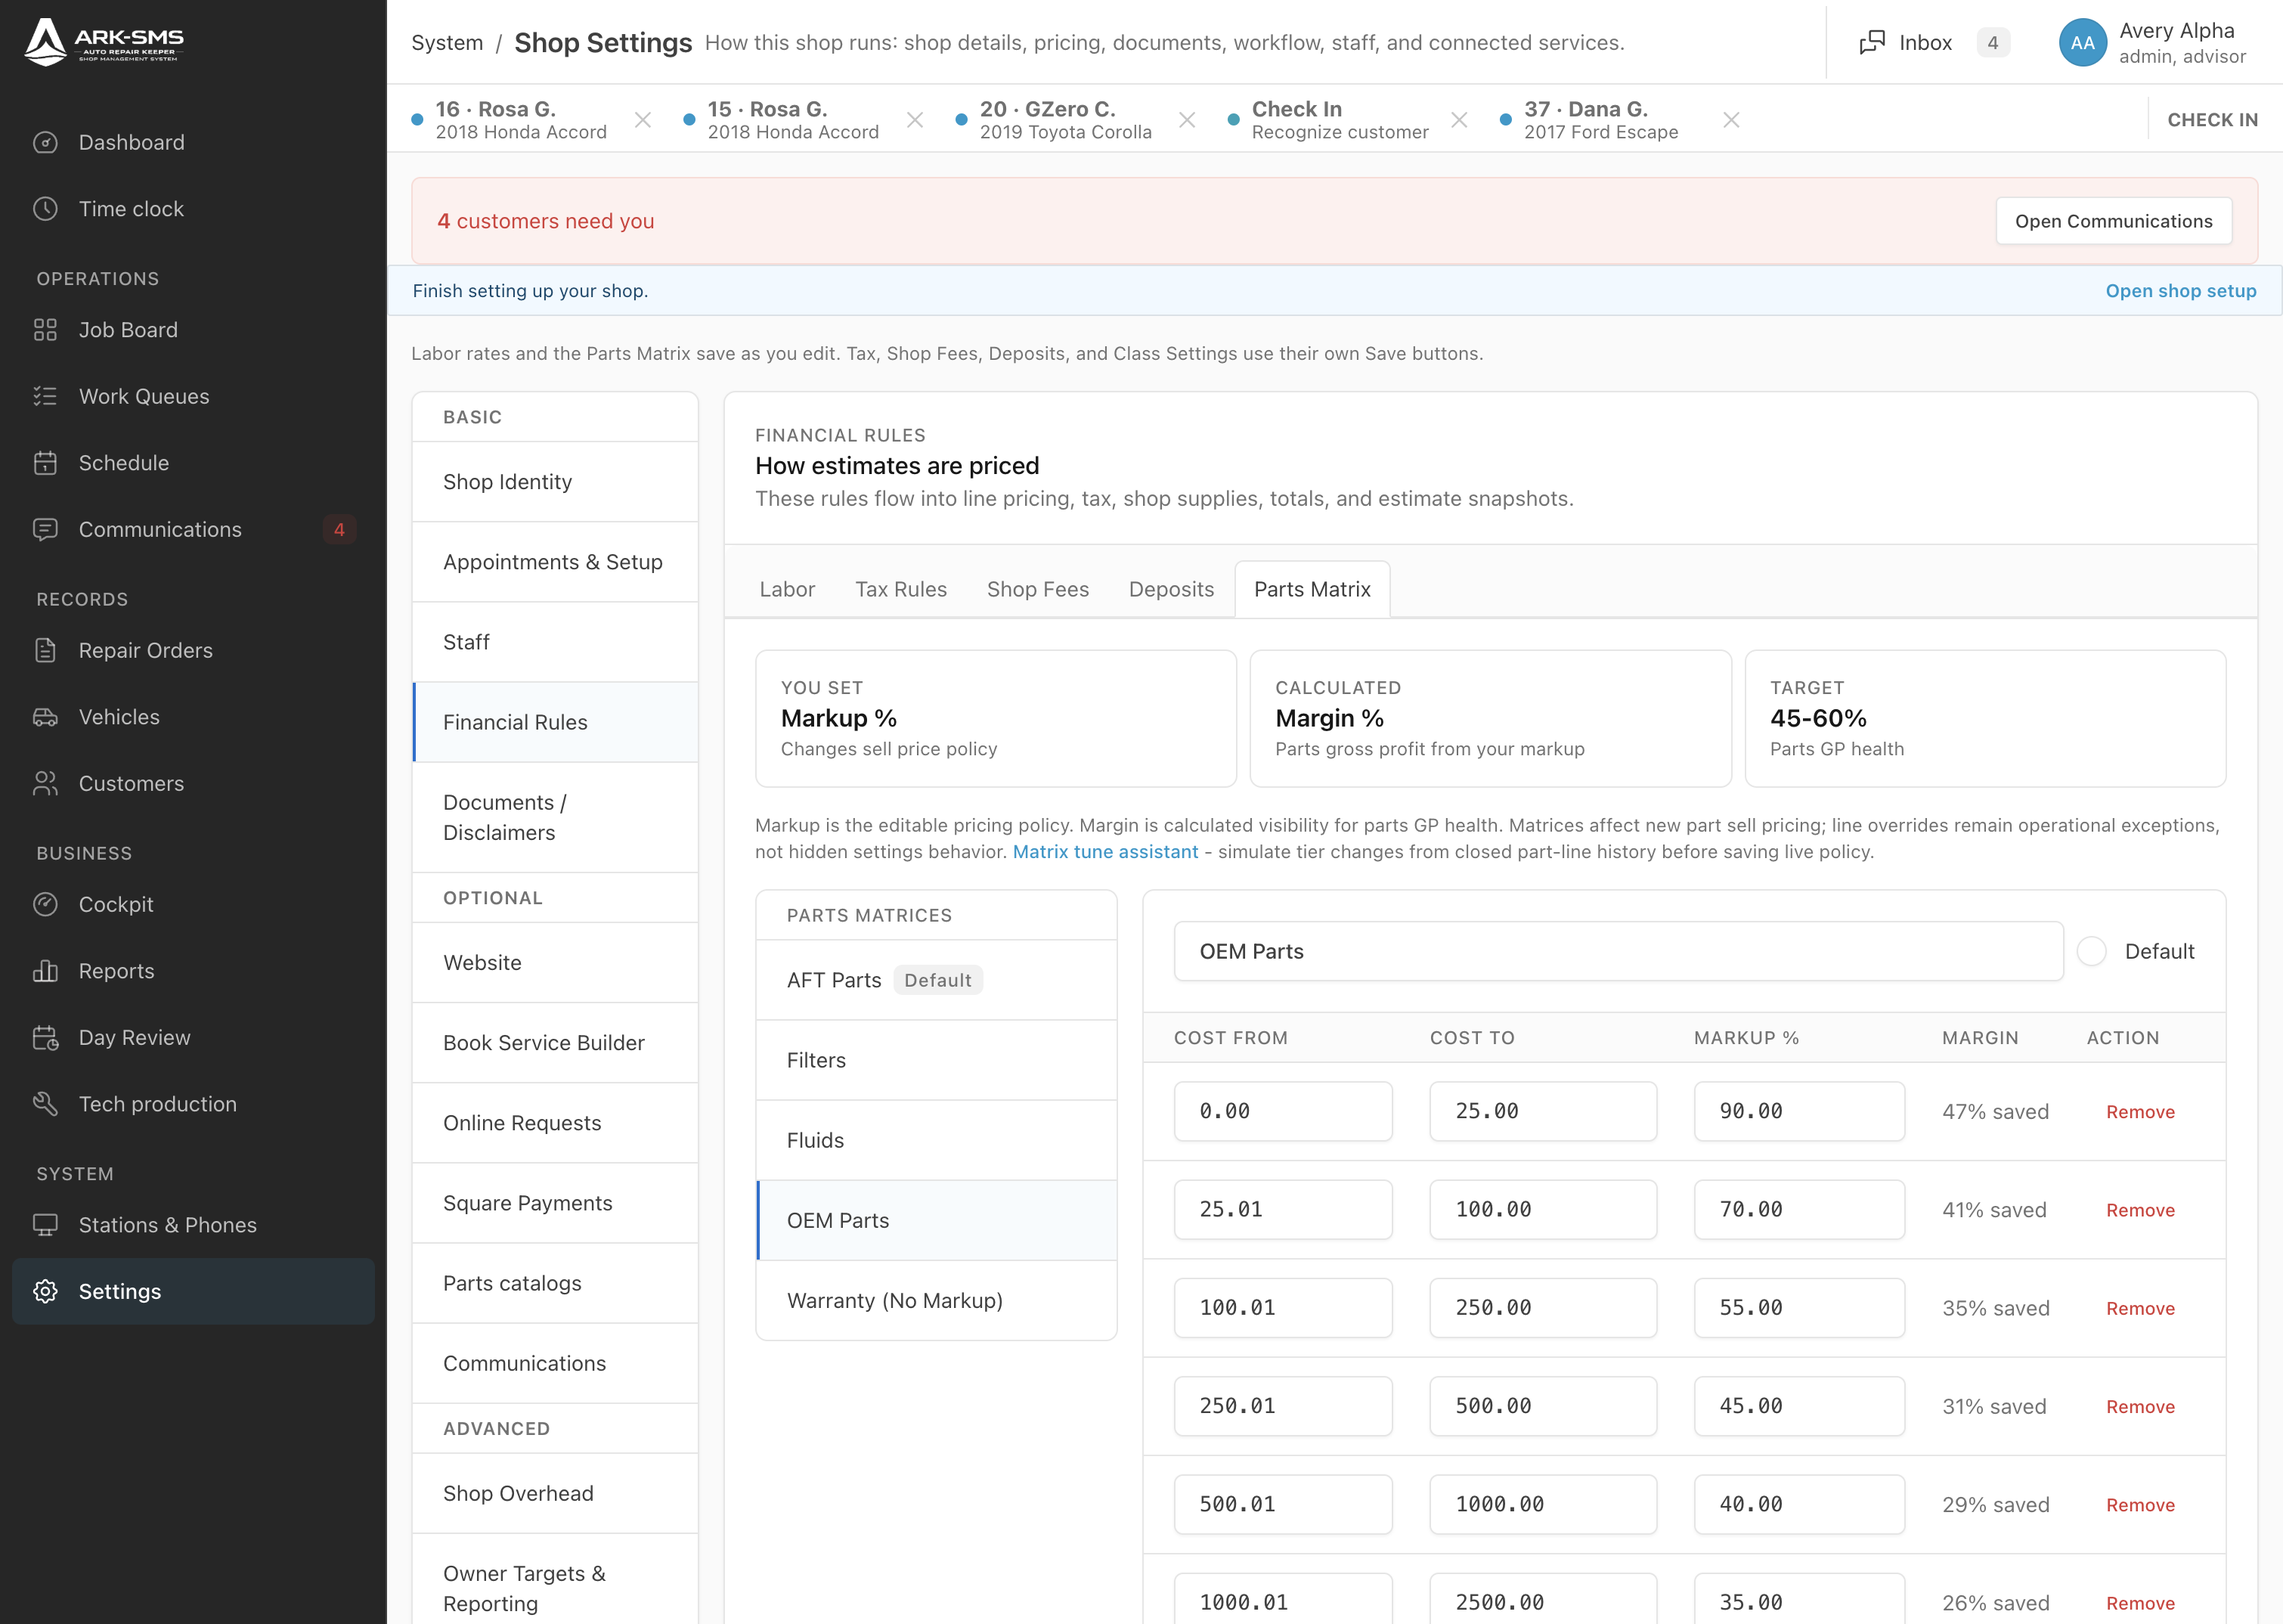
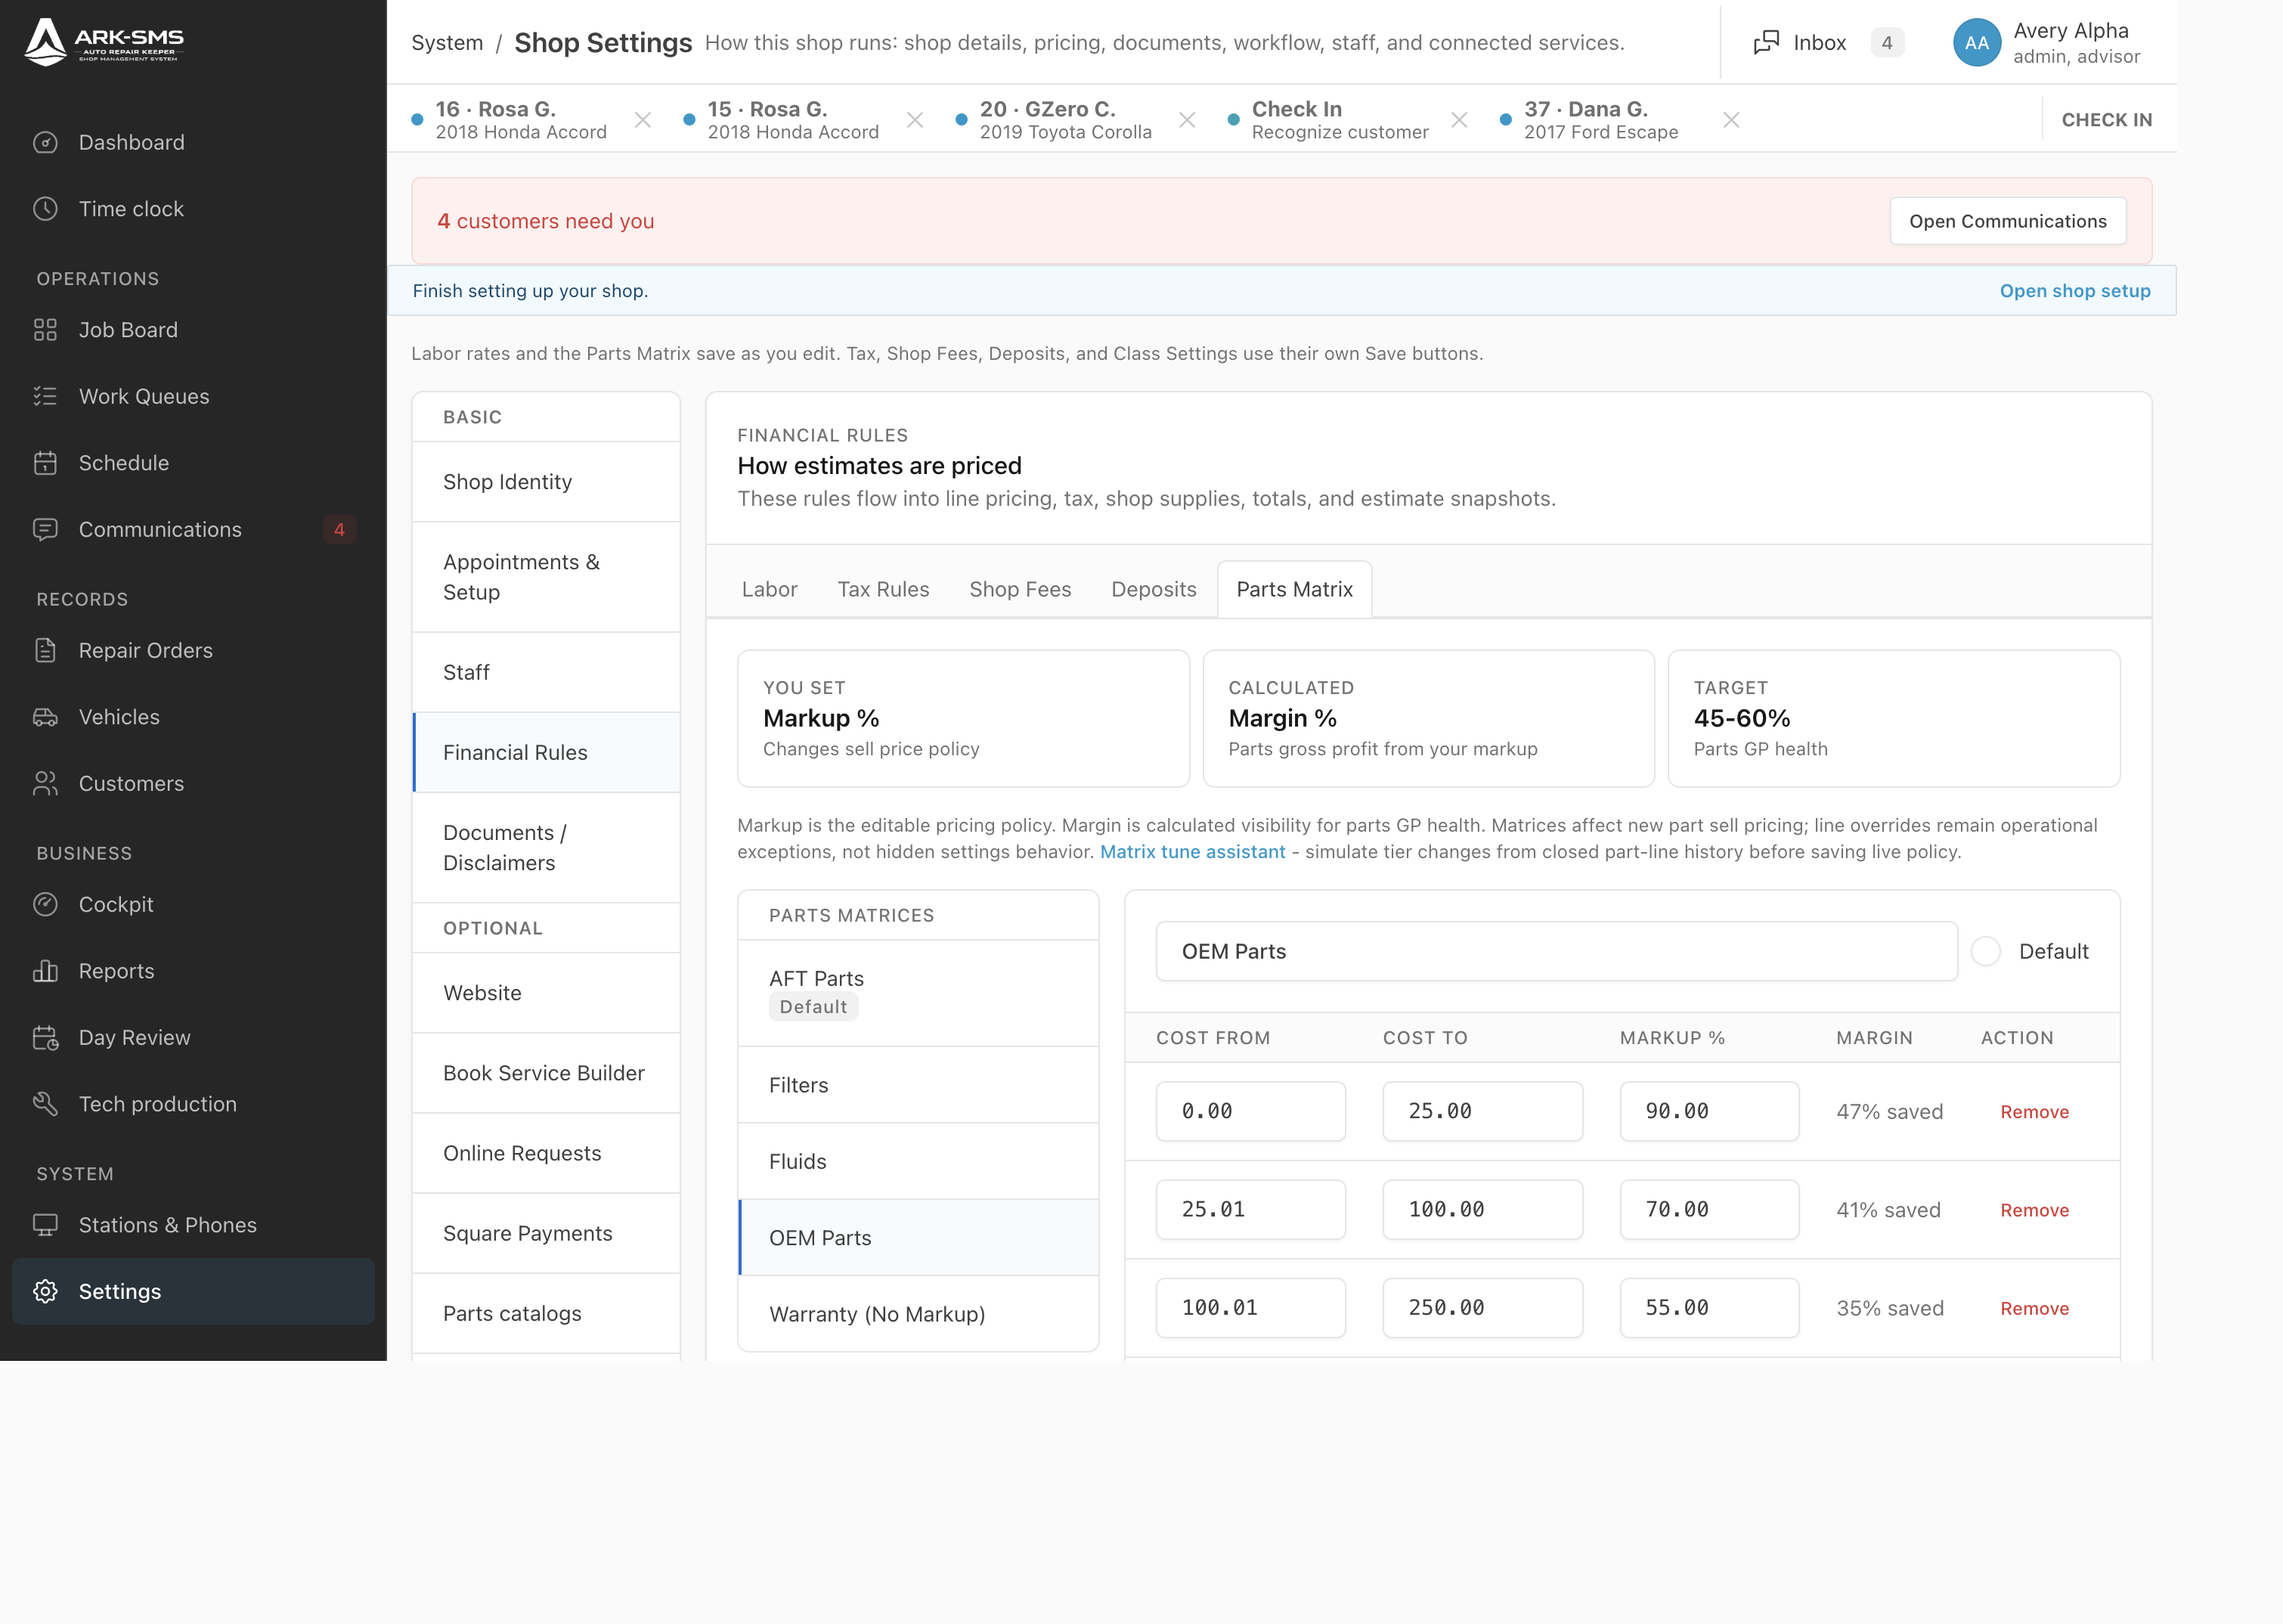
Refresh Slice A owner-review evidence on the polish tip.
Record CI root cause, #188/#189 merge sequence, and same-pin Labor/Parts/Tax screenshots after the editable tax catalog and Labor nav fix.

diff --git a/docs/review-artifacts/tax-profiles-174-slice-a/EVIDENCE.md b/docs/review-artifacts/tax-profiles-174-slice-a/EVIDENCE.md
@@ -12,11 +12,11 @@
 |---|---|
 | Main (audit base) | `2b32d48b6bf2a01f867f1cd9e256b3392169db4f` |
 | Failed CI tip (owner review) | `0fbcf8bca32a956a5e4a3e5a5283cfcbfb38f88e` |
-| PR / Slice A tip (this polish) | _(set after push)_ |
-| Alpha Core | _(re-pin after push for screenshots)_ |
+| PR / Slice A tip (this polish) | `e3f87b8a5beb1c1202e0a7bf6b0fd2ccd1be046a` |
+| Alpha Core (screenshot pin) | `e3f87b8a5beb1c1202e0a7bf6b0fd2ccd1be046a` |
 | Alpha SaaS | `eb859c2159a1821d87e51721698d4608c3bb20c1` |
 
-Staging only. No production pin, merge, or tenant migration in this pass.
+Staging only. No production pin, merge, or tenant migration in this polish (Alpha already had the Slice A additive migration). Temporary tax-on sample restored to tax disabled after screenshots.
 
 ## CI root cause on `0fbcf8b` (Tests / focused)
 
@@ -27,8 +27,8 @@ Workflow: https://github.com/EdwardSoaresJr/ark-core/actions/runs/43264768298
   - `ShopSettingsTest::admin can view operational shop settings defaults` — still asserted legacy copy (`Sales tax rate`, `Tax display name`, `Saved tax setup:`).
   - `ShopSettingsTest::tax and shop fee switches are checkboxes…` — still asserted top-level `taxable_*` checkboxes and `x-data="{ taxEnabled: true }"`.
 - Slice A moved taxable flags under `tax_profiles[0][…]` and renamed the tax heading to **Sales tax profiles**.
-- Fix: update those assertions; add coverage for `+ Add tax profile` / add-component affordances.
-- Local re-run (passed): `ShopTaxProfilesSliceATest|ShopSettingsFinancialTablerTest|ShopSettingsTest` tax/view cases|`PartsMatrixAndTaxForwardOnlyTest` (and related labor/parts settings filters).
+- Fix: update those assertions; cover `+ Add tax profile` / add-component affordances.
+- Local re-run (passed): `ShopTaxProfilesSliceATest`, Tabler financial scrapers, ShopSettings tax/view cases, Parts/Labor forward-only filters (37 tests).
 
 ## Slice A delivered (including HOLD MERGE polish)
 
@@ -39,16 +39,22 @@ Workflow: https://github.com/EdwardSoaresJr/ark-core/actions/runs/43264768298
 5. Labor nav: column-stacked label + short **Default** badge (240px width unchanged) so “Mechanical” no longer wraps beside a long badge.
 6. Tests for add/deactivate/validation + updated ShopSettings/Tabler scrapers.
 
-## Layout confirmation
+## Layout confirmation (Alpha @ `e3f87b8`)
 
-- Desktop: Labor / Parts / Tax share `--ops-financial-nav-width: 240px` and the same flex master-detail shell.
-- Mobile: nav stacks above editor (`d-lg-none` helper copy on Tax); screenshots at 320 / 375 / 430.
-- Fresh same-width desktop + mobile shots re-captured on the polish tip (see files below).
+Measured at 1440×900 desktop:
 
-## Explicitly deferred
+| Surface | `.ops-financial-master-detail__nav` width | Notes |
+|---|---|---|
+| Labor | **240px** | `flex-direction: column`; badge text `Default`; label `Mechanical` single line |
+| Parts | **240px** | same shared CSS var |
+| Tax | **240px** | `+ Add tax profile` / `+ Add component` present |
 
-- **Slice B (owner):** TaxProfile schema 2 immutable selected-profile/component snapshot; service-location + manual profile selection; pre-auth selection change with audited recalc; post-approval tax **increase** → supplemental auth before extra cents collectible; decreases without extra auth; preserve historical approvals/snapshots/invoices/terminal records; **no separate tax engine**. ZIP may suggest a profile; selection confirms against **service location** (fleet: RO service location, not HQ).
-- **Slice C (owner):** component-level calc; combined/itemized document rendering; customer tax exemption + evidence independent of Billing Class; jurisdiction exemptions; cent-level reconcile across invoices/approvals/PDFs/portal/reporting.
+Mobile: nav stacks above editor; usable at 320 / 375 / 430.
+
+## Explicitly deferred (owner architectural decisions — do not implement in Slice A)
+
+- **Slice B:** TaxProfile schema 2 immutable selected-profile/component snapshot; service-location + manual profile selection; pre-auth selection change with audited recalc; post-approval tax **increase** → supplemental auth before extra cents collectible; decreases without extra auth; preserve historical approvals/snapshots/invoices/terminal records; **no separate tax engine**. ZIP may suggest a profile; selection confirms against **service location** (fleet: RO service location, not HQ).
+- **Slice C:** component-level calc; combined/itemized document rendering; customer tax exemption + evidence independent of Billing Class; jurisdiction exemptions; cent-level reconcile across invoices/approvals/PDFs/portal/reporting.
 - Colorado SUTS / paid providers: not in Slice A.
 
 ## Compatibility
@@ -61,12 +67,12 @@ Workflow: https://github.com/EdwardSoaresJr/ark-core/actions/runs/43264768298
 | Issued/archived documents | Untouched |
 | `tax_document_presentation` | Stored only; itemized rendering in Slice C |
 
-## Screenshots
+## Screenshots (same Alpha Core `e3f87b8`)
 
-Desktop (same browser width):
+Desktop (same browser width 1440):
 - `desktop-labor.png`
 - `desktop-parts.png`
-- `desktop-tax.png`
+- `desktop-tax.png` (tax temporarily enabled with Colorado Springs 2.9+3.12 components for UI review, then restored off)
 
 Mobile:
 - `mobile-tax-320.png` / `mobile-tax-375.png` / `mobile-tax-430.png`
